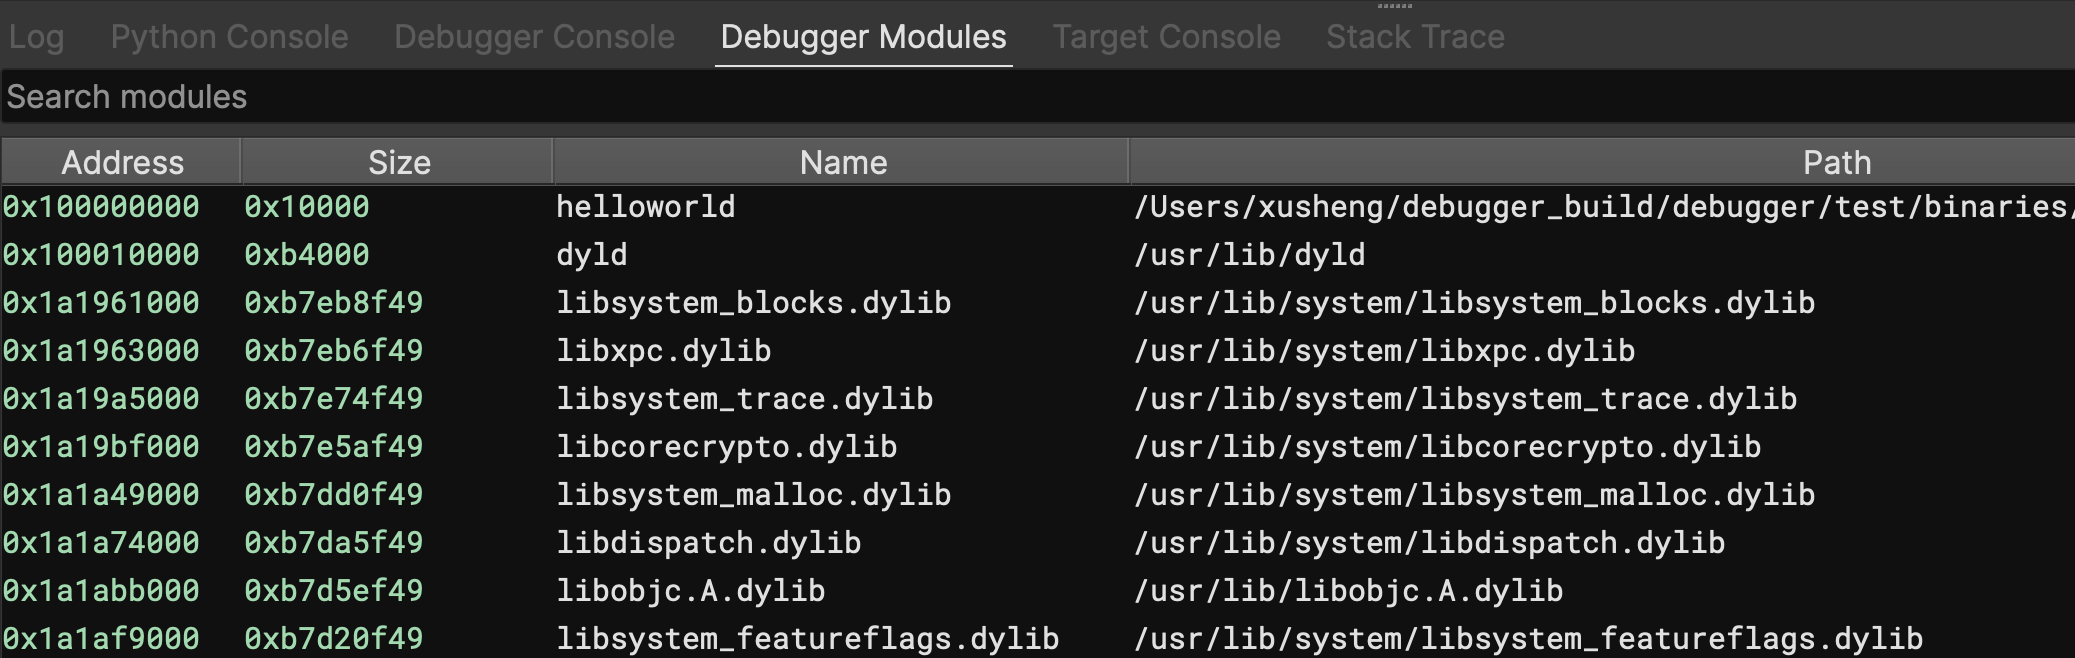
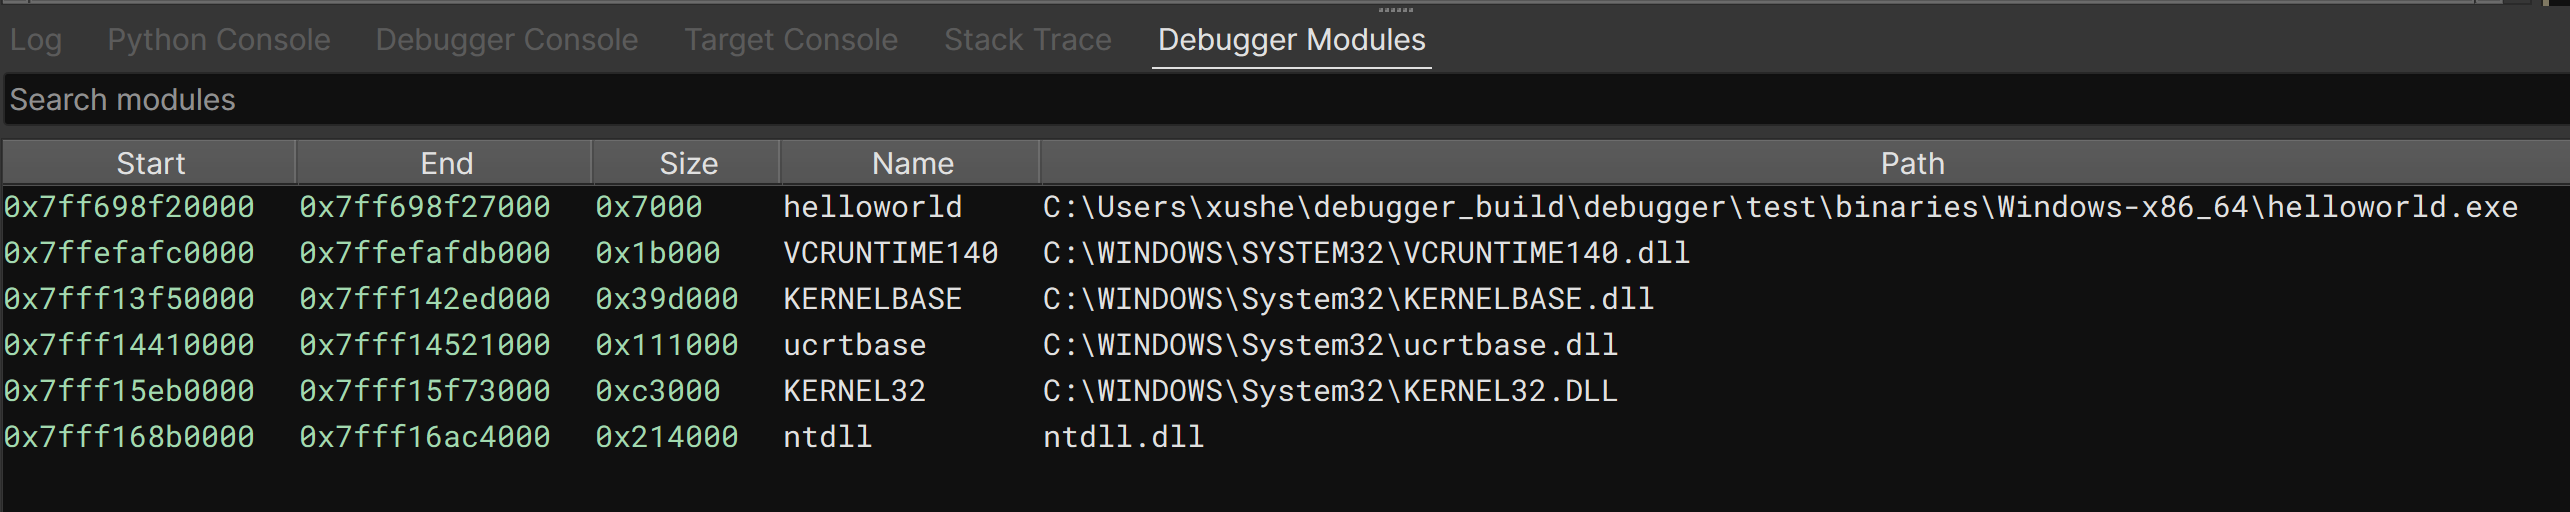
Update debugger docs

diff --git a/docs/guide/debugger.md b/docs/guide/debugger.md
@@ -38,6 +38,9 @@ A common scenario is to click the left-most button to launch the target and then
 
 For `Step Into` and `Step Over`, if the current view is viewing an IL function, then the operation appears to be performed on that IL, offering a source-code debugging-like experience. However, the underlying operation is still performed at the disassembly level because that is the only thing the backend understands. The high-level operations are simulated, i.e., the debugger may decide to step the target multiple times before finally yielding the control. These are transparent to the users.
 
+When the `Attach To Process...` button is clicked, a dialog pops up and shows all the running processes on the system. Selecting one of them and clicking `Attach` will attach to the process.
+
+![](../img/debugger/attachtopid.png)
 
 #### Register Widget
 
@@ -78,6 +81,15 @@ Within this dialog, you can select which DebugAdapter to use, as well as configu
 `Run in Seperate Terminal` will cause the target to run in its own terminal, and the debugger will not be able to monitor its `stdout/stderr`, or send input `stdin`.
 This is suitable when the target sends complex output, and the debugger's console emulator (which is quite basic now) cannot handle it.
 
+There are several useful actions in the debugger menu that are worth explaining:
+
+1. `Create Stack View` splits the active view and navigates to the stack pointer value in the new pane. Very useful for viewing stack variables.
+2. `Jump to IP` navigates to the value of the instruction pointer. This is especially helpful when one explores the binary and wishes to get back to the current instruction.
+3. `Override IP` allows changing the instruction pointer value. This is useful when we wish to revert a branch -- simply set the new IP at the other target of the branch. 
+The new IP defaults to the currently selected address. A dialog will pop up after clicking this action, which allows confirming and editing the new IP.
+
+![](../img/debugger/overrideip.png)
+
 ### Global Area Panels
 
 The debugger adds four new global area widgets: Target Console (terminal), Debugger Console, Stack Trace, and the Modules List.
@@ -104,24 +116,34 @@ On Windows, the backend is based on Windows Debugger Engine, and it supports Win
 
 The console supports resuming the target, e.g., stepping.
 
+Like the Python console, all addresses in the debugger console is clickable -- clicking it navigates to the address.
+
 #### Stack Trace
 
 ![](../img/debugger/stacktracewidget.png)
 
-The stack trace widget lists all the threads along with the stack frames of the active thread.
+The stack trace widget lists all the threads along with the stack frames. 
 
-The dropdown menu is a thread selector, which can be used to switch between threads. The selected thread will become the active thread and its stack frames will be shown below.
+When the target stops, the active thread is expanded and its stack frames are displayed. Stack traces for other threads are collapsed by default and can be expanded from the UI. 
 
-Double-clicking an item in the stack frames list navigates to the return address of the frame.
+Double-clicking the addresses in the PC (program counter), SP (stack pointer), and FP (frame pointer) column navigates to the address. 
 
+The active thread is marked with `(*)`. Double-clicking another thread will set that as the active thread. As a result, the register widget will show the registers from the new active thread.
+
+![](../img/debugger/threadwidgetcontextmenu.png)
+
+The context menu offers to suspend and resume each thread individually. A convenience method is offered to make a thread "solo", which suspends all other threads and resumes the thread. Note, resuming the thread does NOT cause the thread to start executing immediately. It only makes the thread execute the next time the target is resumed, e.g., by pressing the `Go` or `Step Over` button. There are some known issues when suspending/resuming individual threads with LLDB adapter.
 
 #### Module Widget
 
 ![](../img/debugger/modulewidget.png)
 
-The module widget shows the address, size, name, and path information of the target's modules.
+The module widget shows the start/end address, size, name, and path information of the target's modules.
 
-Note: the bizarrely huge size is caused by dyld_shared_cache on macOS, which will be addressed in the future. The size of the main executable is still calculated correctly.
+Double-clicking the addresses navigates to the address.
+
+Note: on macOS 13, the size of system dylib are calculated wrong. The bizarrely huge size is caused by dyld_shared_cache on macOS, which will be addressed in the future.
+The size of the main executable is still calculated correctly.
 
 
 ### Debugger Status Widget
@@ -168,6 +190,8 @@ In the future, we will offer a way to set up this side-by-side view in one click
 Only the stack frames and variables of the current (active) thread are annotated to avoid confusion. If you wish to view stack variables from a different thread, first switch to that thread in the `Stack Trace` global area panel.
 
 The annotation is done only when there are at least two frames in the stack trace. This is a known limitation, and we will address it later.
+
+If the stack variable annotation does not work in certain cases or even causes extra problems, it can be disabled by setting `debugger.stackVariableAnnotations` to false.
 
 
 ### Other UI Elements
@@ -259,14 +283,15 @@ There are several ways to launch the target:
 
 ### Add/Remove Breakpoints
 
-- Select the line, use the `Toggle Breakpoint` context menu
+- Select the line, use the `Toggle Breakpoint` context menu or the debugger main window menu
 - Right-click a line in the Breakpoint widget in the sidebar, and select `Remove Breakpoint`
 - Run `dbg.add_breakpoint(address)` or `dbg.delete_breakpoint(address)` in the Python console.
 
 
 ### Modify Register Values
 
-- Double-click a value item in the Register widget, type in the new value, and hit enter
+- Right-click a value item in the Register widget, type in the new value, and hit enter
+- Run `dbg.regs[reg_name] = value` in the Python console
 - Run `dbg.set_reg_value(reg_name, value)` in the Python console.
 
 
@@ -275,6 +300,21 @@ There are several ways to launch the target:
 - Switch to Linear or hex view of the Debugger BinaryView, and view/edit in the normal way
 - Get the Debugger BinaryView by `dbg.live_view`, and read/write it in the normal way
 
+
+### Navigating the binary
+
+- Double-clicking a value in the register widget, modules widget, and thread frames widget navigates to the address. 
+Note the 0th (first) frame in the stack frame widget usually contains the program counter and the stack pointer, which is used quite often.
+- Clicking an address in the debugger console navigates to the address
+- Use the `Jump to IP` action to instantly jump back to the current IP
+- Use the `Create Stack View` action to split the view and navigate to the stack pointer in the new pane
+- Use register values in the expression parser. We can use `$reg` to refer to the value of a register in the expression parser. 
+For example, `$rax` evaluates to the value of the `rax` register. 
+We can use `$eip`/`$rip`/`pc` to navigate to the current program counter, or `$esp`/`$rsp`/`sp` to navigate to the current stack pointer.
+Thanks to the power of the expression parse, these register values can be combined with other arithmetic operations.
+This is especially helpful to quickly navigate to the stack variables since they typically have an address like `$rsp+0x20` or `$rbp-0x8`, which the expression parser can calculate properly:
+
+![](../img/debugger/expressionparser.png)
 
 ### Remote Debugging
 
